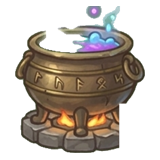
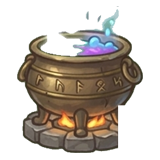
切れていたアイコン（メニュー3つ・矢・剣・盾・錬金釜・薬草・印6種・転生の書・聖なる袋）を切り出し直し、一覧の丸い台では道具の絵を小さく出す

diff --git a/src/ui/sheet.ts b/src/ui/sheet.ts
@@ -83,7 +83,8 @@ export function renderRow(row: SheetRow): HTMLElement {
   el.className = ['sheet-row', row.dim ? 'dim' : '', row.className ?? ''].filter(Boolean).join(' ');
   const icon = document.createElement('span');
   icon.className = 'icon';
-  if (row.art && hasArt(row.art)) icon.append(artElement(row.art, row.icon));
+  // 道具の絵は四角いので、丸い台からはみ出さないよう小さく出す
+  if (row.art && hasArt(row.art)) icon.append(artElement(row.art, row.icon, row.art.startsWith('item_') ? 'art item-art' : 'art'));
   else icon.textContent = row.icon;
   const text = document.createElement('div');
   const name = document.createElement('div');

diff --git a/public/sw.js b/public/sw.js
@@ -1,7 +1,7 @@
 // オフラインでも遊べるようにする（requirements.md 2章）。
 // 通信できるときは常に新しいものを取りに行き、取れたものを保存しておく。通信できないときは保存したものを使う
 // 保存の仕方を変えたときだけ名前を変える。ビルドごとに変える必要はない
-const CACHE = 'summoner-v35';
+const CACHE = 'summoner-v36';
 
 // 入れたときに、ページと、ページが読み込むファイル（ビルドで名前が変わる）を先に保存する
 self.addEventListener('install', (event) => {

diff --git a/src/style.css b/src/style.css
@@ -1865,3 +1865,12 @@ button {
   width: 42px;
   height: 42px;
 }
+/* 道具の絵は、丸い台の中に収まる大きさにする（四角い絵の角が切れないように） */
+.sheet-row .icon .item-art {
+  width: 34px;
+  height: 34px;
+}
+#base-body.shop .sheet-row .icon .item-art {
+  width: 30px;
+  height: 30px;
+}
